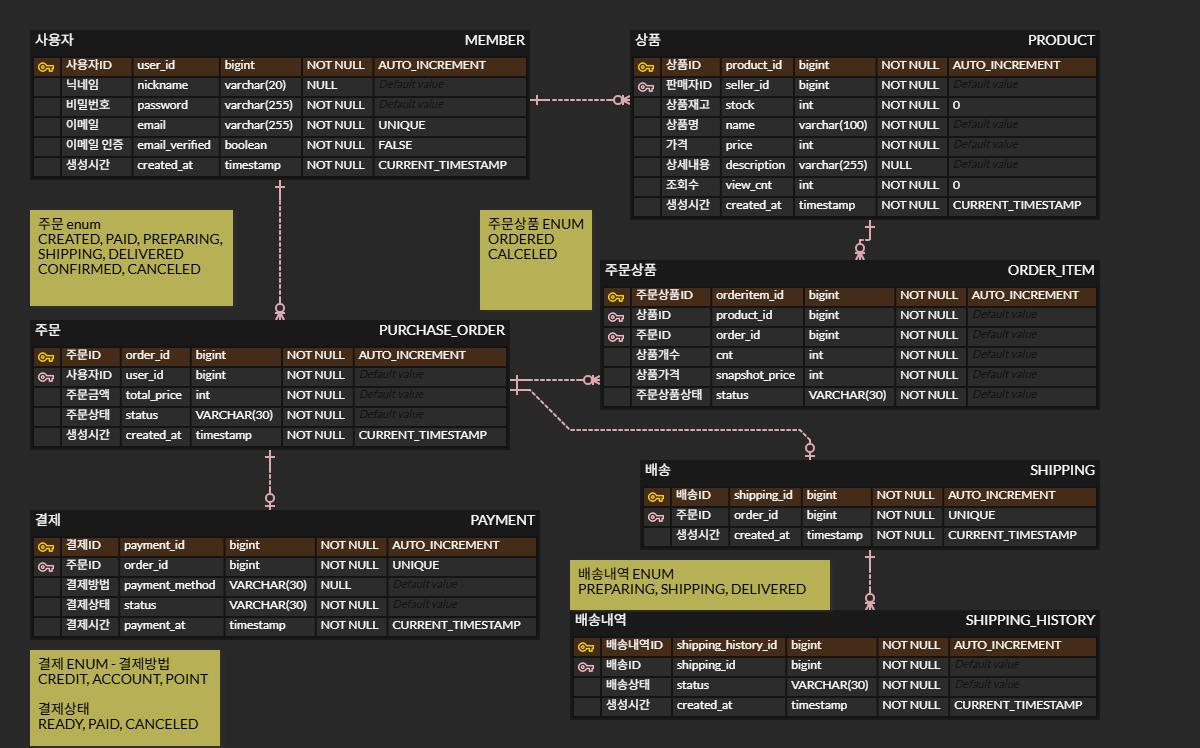
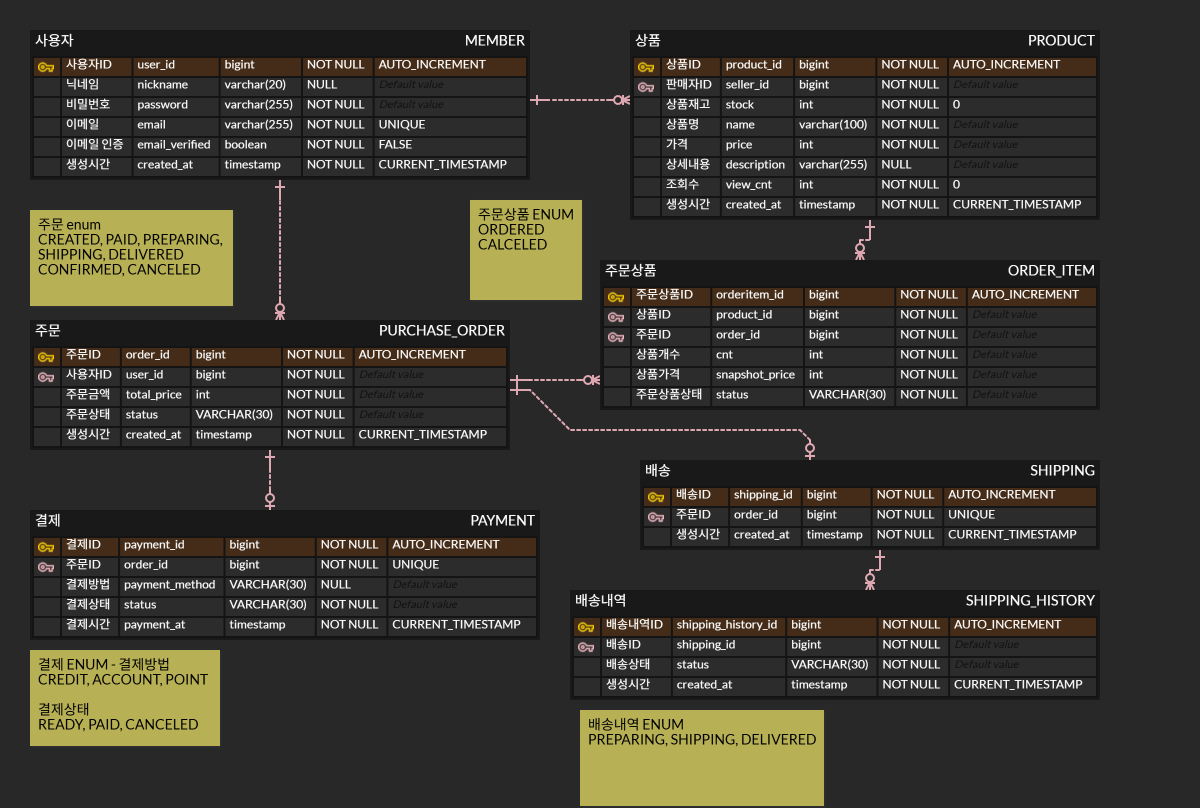
docs: README.md 수정

diff --git a/README.md b/README.md
@@ -1,10 +1,8 @@
-# 🛒 Order System -  주문/결제 서비스
+# 🛒 Order System - 주문/결제 서비스
 
-> **데이터 정합성 유지와 동시성 문제 해결에 집중한 백엔드/프론트엔드 통합 프로젝트**
+> **데이터 정합성 유지와 동시성 문제 해결에 집중한 백엔드 프로젝트**
 
-<br/>
-
-## Demo & Links
+[//]: # (## Demo & Links)
 
 [//]: # (- 🌍 **Live Demo:** [http://my-order-system.example.com]&#40;<링크 입력>&#41;)
 
@@ -21,37 +19,29 @@
 [//]: # (확장성과 유지보수성을 고려하여 도메인 중심의 설계를 진행했습니다.)
 
 [//]: # ()
+
 [//]: # (- [주문, 상품, 결제 도메인을 분리해야 했던 이유와 패키지 구조 고민]&#40;<블로그 링크 입력>&#41;)
 
 [//]: # (- [단일 책임 원칙&#40;SRP&#41;을 지키기 위한 Facade 패턴 도입기]&#40;<블로그 링크 입력>&#41;)
 
-### 동시성 처리 및 데이터 정합성 (가장 중요)
+[//]: # (### 동시성 처리 및 데이터 정합성)
 
 [//]: # (주문 시스템의 핵심인 재고 차감 시 발생할 수 있는 동시성 이슈를 분석하고 해결했습니다.)
 
 [//]: # ()
+
 [//]: # (- [[이슈] 선착순 특가 상품, 100개인데 150개가 주문된다면? &#40;동시성 이슈 분석&#41;]&#40;블로그 링크 입력&#41;)
 
 [//]: # (- [[해결] 비관적 락&#40;Pessimistic&#41; vs 낙관적 락&#40;Optimistic&#41; 성능 테스트 및 비교]&#40;블로그 링크 입력&#41;)
 
 [//]: # (- [[최적화] 분산 서버 환경을 고려한 Redis Redisson 분산 락 전환기]&#40;블로그 링크 입력&#41;)
 
-### 성능 최적화
-
-[//]: # (불필요한 쿼리를 줄이고 응답 속도를 개선하여 사용자 경험을 향상시켰습니다.)
-
-[//]: # ()
-[//]: # (- [[개선] 주문 내역 조회 시 발생하는 N+1 문제, Fetch Join으로 쿼리 10개에서 1개로 줄이기]&#40;블로그 링크 입력&#41;)
-
-[//]: # (- [[개선] 상품 검색 속도 80% 향상을 위한 Database Index 튜닝 설계]&#40;블로그 링크 입력&#41;)
-
-[//]: # (- [[개선] 변경이 적은 카테고리/상품 데이터를 Redis로 캐싱하여 DB 부하 줄이기]&#40;블로그 링크 입력&#41;)
-
-### 트러블슈팅 & 안정성
+### 트러블슈팅
 
 [//]: # (예상치 못한 버그와 장애 상황을 겪으며 시스템을 견고하게 만든 과정입니다.)
 
 [//]: # ()
+
 [//]: # (- [[이슈] 결제 승인 도중 외부 API 타임아웃 발생 시, 롤백 처리는 어떻게 해야 할까?]&#40;블로그 링크 입력&#41;)
 
 [//]: # (- [[보안] JWT 토큰 탈취를 막기 위한 Refresh Token Rotation 전략 도입]&#40;블로그 링크 입력&#41;)
@@ -62,15 +52,17 @@
 
 ## 기술 스택
 
-| 영역             | 기술                                                  |
-|----------------|-----------------------------------------------------|
-| **Language**   | Java 17, JavaScript (ES6+)                          |
-| **Backend**    | Spring Boot 3.5, Spring Data JPA, Spring Validation |
-| **Database**   | MySQL 8.0.44                                        |
-| **API Docs**   | Springdoc OpenAPI (Swagger UI)                      |
-| **Frontend**   | React (Vite), Tailwind CSS                          |
-| **Build/Test** | Gradle                                              |
-| **Infra**      | AWS EC2, Docker (적용 예정)                             |
+| 영역             | 기술                               |
+|----------------|----------------------------------|
+| **Language**   | Java 17, JavaScript              |
+| **Backend**    | Spring Boot 3.5, Spring Data JPA |
+| **Database**   | MySQL 8.0.44                     |
+| **API Docs**   | Springdoc OpenAPI (Swagger UI)   |
+| **Frontend**   | React (Vite), Tailwind CSS       |
+| **Build/Test** | Gradle                           |
+
+[//]: # (| **Infra**      | AWS EC2, Docker &#40;적용 예정&#41;                             |)
 
 ## ERD
+
 ![order-system ERD](/frontend/public/assets/ERD_order-system.png)